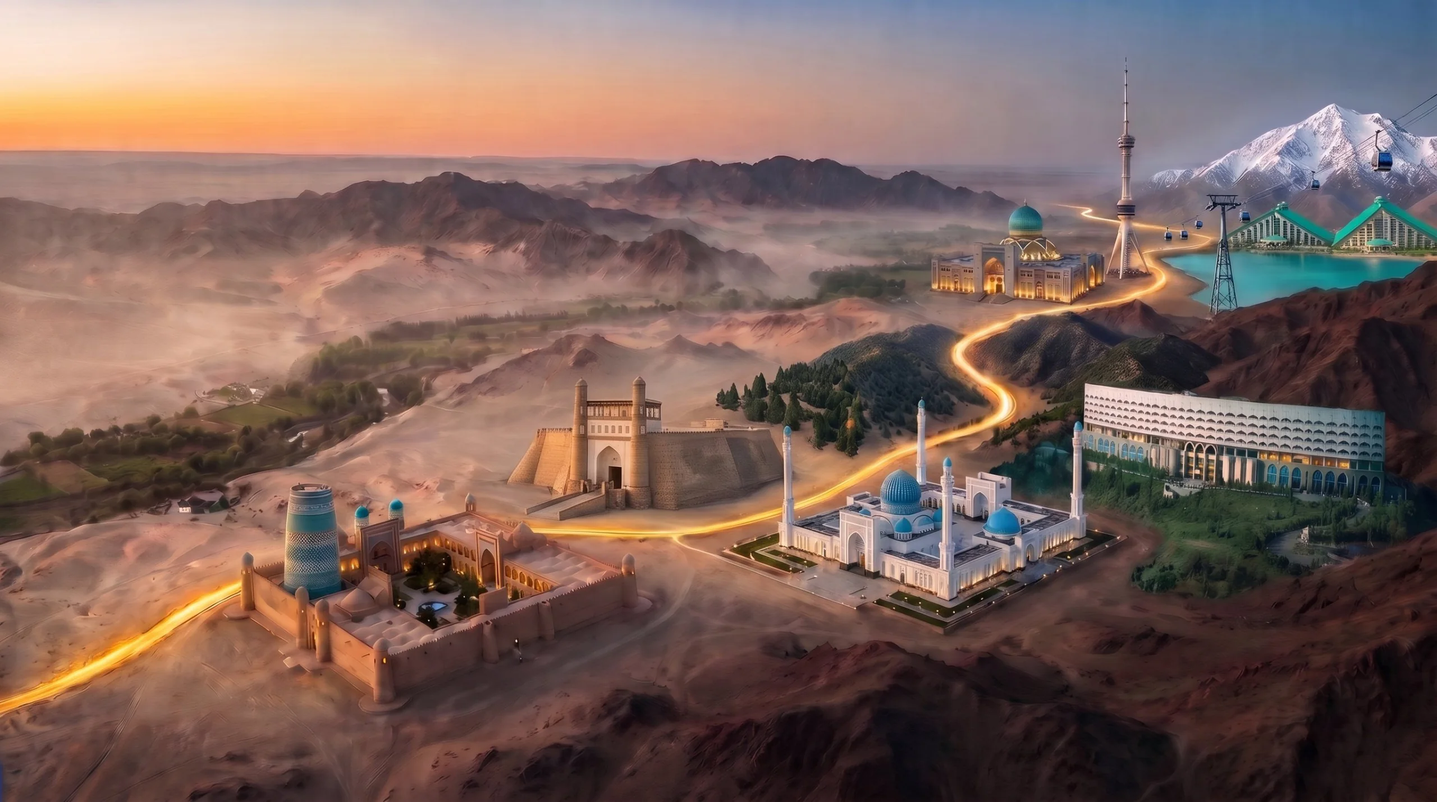
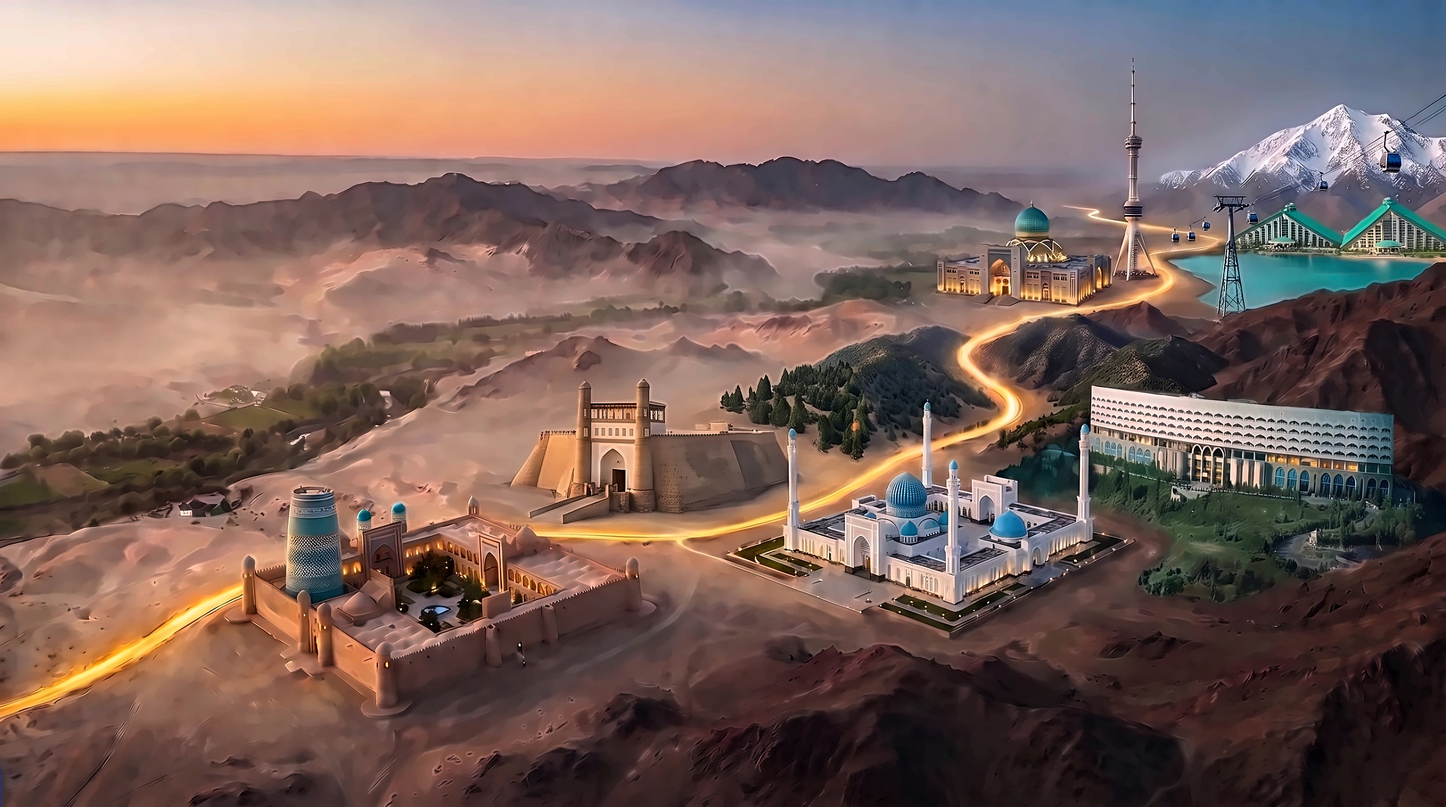
Главная: более чёткая картинка (шумоподавление, резкость по деталям), бикубическая выборка в шейдере, без тумана и зерна, меньше увеличения
Claude-Session: https://claude.ai/code/session_019rvsgJd1NsjFrsZph4atX1

diff --git a/js/hero-silk.js b/js/hero-silk.js
@@ -10,7 +10,8 @@
      свет «зажигает» дорогу, потом по ней течёт золотой поток;
    • silk3-map-b.png: R — вода Чарвака (рябь, блики), G — снег
      Чимгана (искры), B — ореол дороги;
-   • туман в долине, мягкая виньетка, плёночное зерно.
+   • картинка берётся бикубически (чётче обычного сглаживания);
+     без тумана и зерна — чистая чёткая сцена.
    Маршрут внизу — навигация по регионам с цифрами из каталога.
    Без WebGL или при «уменьшить движение» остаётся картинка.
    ============================================================ */
@@ -145,12 +146,33 @@ varying vec2 vUv;
 uniform sampler2D uImg, uA, uB;
 uniform vec2 uRes;
 uniform float uImgAR, uTime, uProg, uExpo, uFlow, uFocusR;
+uniform vec2 uTexSize;
 uniform vec3 uCam, uFocus;
 uniform vec2 uPar;
 
 float hash(vec2 p){ p = fract(p * vec2(123.34, 456.21)); p += dot(p, p + 45.32); return fract(p.x * p.y); }
 float noise(vec2 p){ vec2 i = floor(p), f = fract(p); f = f * f * (3. - 2. * f);
   return mix(mix(hash(i), hash(i + vec2(1., 0.)), f.x), mix(hash(i + vec2(0., 1.)), hash(i + vec2(1., 1.)), f.x), f.y); }
+/* бикубическая выборка (Catmull-Rom, 9 обращений) — без «мыла» при увеличении */
+vec3 sharpTex(sampler2D tex, vec2 uv, vec2 ts){
+  vec2 sp = uv * ts, t1 = floor(sp - .5) + .5, f = sp - t1;
+  vec2 w0 = f * (-.5 + f * (1. - .5 * f));
+  vec2 w1 = 1. + f * f * (-2.5 + 1.5 * f);
+  vec2 w2 = f * (.5 + f * (2. - 1.5 * f));
+  vec2 w3 = f * f * (-.5 + .5 * f);
+  vec2 w12 = w1 + w2;
+  vec2 t0 = (t1 - 1.) / ts, t3 = (t1 + 2.) / ts, t12 = (t1 + w2 / w12) / ts;
+  vec3 r = texture2D(tex, vec2(t0.x, t0.y)).rgb * w0.x * w0.y
+         + texture2D(tex, vec2(t12.x, t0.y)).rgb * w12.x * w0.y
+         + texture2D(tex, vec2(t3.x, t0.y)).rgb * w3.x * w0.y
+         + texture2D(tex, vec2(t0.x, t12.y)).rgb * w0.x * w12.y
+         + texture2D(tex, vec2(t12.x, t12.y)).rgb * w12.x * w12.y
+         + texture2D(tex, vec2(t3.x, t12.y)).rgb * w3.x * w12.y
+         + texture2D(tex, vec2(t0.x, t3.y)).rgb * w0.x * w3.y
+         + texture2D(tex, vec2(t12.x, t3.y)).rgb * w12.x * w3.y
+         + texture2D(tex, vec2(t3.x, t3.y)).rgb * w3.x * w3.y;
+  return clamp(r, 0., 1.);
+}
 float fbm(vec2 p){ float v = 0., a = .5; for (int i = 0; i < 4; i++) { v += a * noise(p); p = p * 2.03 + 7.1; a *= .5; } return v; }
 
 void main(){
@@ -176,18 +198,10 @@ void main(){
     wuv.x += (noise(vec2(uv.x * 160., uv.y * 900. - uTime * .9)) - .5) * .0022 * water;
     wuv.y += (noise(vec2(uv.x * 90. + uTime * .25, uv.y * 520.)) - .5) * .0010 * water;
   }
-  vec3 col = texture2D(uImg, wuv).rgb;
+  vec3 col = sharpTex(uImg, wuv, uTexSize);
   if (water > .01) {
     float g = pow(noise(vec2(uv.x * 620. + uTime * .4, uv.y * 2400. + uTime * 1.4)), 16.);
     col += vec3(1., .93, .8) * g * water * 1.5;
-  }
-
-  /* туман в долине слева — медленно течёт */
-  float fw = smoothstep(.17, .30, uv.y) * (1. - smoothstep(.50, .68, uv.y)) * (1. - smoothstep(.40, .74, uv.x)) * (1. - d * .55);
-  if (fw > .001) {
-    vec2 fp = vec2(uv.x * 3.4 + uTime * .012, uv.y * 7.5);
-    float fog = fbm(fp + vec2(fbm(fp * 1.6 - vec2(uTime * .025, 0.)), 0.));
-    col = mix(col, vec3(.95, .85, .78), smoothstep(.45, .88, fog) * fw * .22);
   }
 
   /* солнце у горизонта дышит */
@@ -227,13 +241,12 @@ void main(){
     col += vec3(1., .78, .5) * fl * uFocus.z * .045;
   }
 
-  /* экспозиция, виньетка, зерно */
+  /* экспозиция и виньетка */
   vec2 vq = s - .5;
   float l2 = dot(col, vec3(.299, .587, .114));
   col = mix(vec3(l2), col, 1.07);
   col = (col - .5) * 1.04 + .5;
   col *= uExpo * (1. - dot(vq, vq) * .32);
-  col += (hash(gl_FragCoord.xy + fract(uTime) * 91.) - .5) * .018;
   gl_FragColor = vec4(col, 1.);
 }`;
 
@@ -256,7 +269,7 @@ void main(){
     gl.bufferData(gl.ARRAY_BUFFER, new Float32Array([-1, -1, 1, -1, -1, 1, 1, 1]), gl.STATIC_DRAW);
     const loc = gl.getAttribLocation(pr, 'p'); gl.enableVertexAttribArray(loc); gl.vertexAttribPointer(loc, 2, gl.FLOAT, false, 0, 0);
     const U = {};
-    ['uImg', 'uA', 'uB', 'uRes', 'uImgAR', 'uTime', 'uProg', 'uExpo', 'uFlow', 'uFocusR', 'uCam', 'uFocus', 'uPar'].forEach((n) => { U[n] = gl.getUniformLocation(pr, n); });
+    ['uImg', 'uA', 'uB', 'uRes', 'uTexSize', 'uImgAR', 'uTime', 'uProg', 'uExpo', 'uFlow', 'uFocusR', 'uCam', 'uFocus', 'uPar'].forEach((n) => { U[n] = gl.getUniformLocation(pr, n); });
     return { gl, U };
   }
 
@@ -323,13 +336,13 @@ void main(){
       camT.x = s.fu; camT.y = .5; camT.z = 1.03;
     } else if (hover >= 0) {
       const s = STOPS[hover];
-      camT.x = lerp(.5, s.fu, .55); camT.y = lerp(.5, s.fv, .5); camT.z = 1.16;
+      camT.x = lerp(.5, s.fu, .55); camT.y = lerp(.5, s.fv, .5); camT.z = 1.12;
     } else {
       /* общий план, лёгкое «дыхание» и наклон к активному региону */
       const s = active >= 0 ? STOPS[active] : null;
-      camT.x = .5 + (s ? (s.fu - .5) * .06 : 0) + .006 * Math.sin(tt * .07);
-      camT.y = .5 + (s ? (s.fv - .5) * .05 : 0) + .004 * Math.sin(tt * .05);
-      camT.z = 1.045 + .012 * Math.sin(tt * .045);
+      camT.x = .5 + (s ? (s.fu - .5) * .06 : 0) + .004 * Math.sin(tt * .07);
+      camT.y = .5 + (s ? (s.fv - .5) * .05 : 0) + .003 * Math.sin(tt * .05);
+      camT.z = 1.018 + .006 * Math.sin(tt * .045);
     }
     if (sel >= 0) { const s = STOPS[sel]; focusT.x = s.fu; focusT.y = s.fv; focusT.r = s.fr; focusT.s = hover >= 0 ? 1 : .75; }
     else focusT.s = 0;
@@ -346,6 +359,7 @@ void main(){
       texture(gl, 0, im); texture(gl, 1, ma); texture(gl, 2, mb);
       gl.uniform1i(U.uImg, 0); gl.uniform1i(U.uA, 1); gl.uniform1i(U.uB, 2);
       gl.uniform1f(U.uImgAR, IMG_AR);
+      gl.uniform2f(U.uTexSize, im.naturalWidth, im.naturalHeight);
       glOn = true;
       run(ctx);
     }).catch(() => { introText(); finishIntro(performance.now()); });
@@ -354,7 +368,7 @@ void main(){
   let W = 0, H = 0, visible = true, raf = 0, last = 0, t0 = 0;
   function resize() {
     const r = canvas.getBoundingClientRect();
-    const dpr = Math.min(window.devicePixelRatio || 1, mobileMQ.matches ? 1.5 : 1.75);
+    const dpr = Math.min(window.devicePixelRatio || 1, 2);
     W = Math.max(1, Math.round(r.width * dpr)); H = Math.max(1, Math.round(r.height * dpr));
     if (canvas.width !== W || canvas.height !== H) { canvas.width = W; canvas.height = H; }
   }
@@ -394,7 +408,7 @@ void main(){
         const [hx, hy] = headPoint(prog);
         const zk = easeIO(clamp((e - .3) / 6.8, 0, 1));
         if (mobileMQ.matches) { camT.x = hx; camT.y = .5; camT.z = lerp(1.12, 1.03, zk); }
-        else { camT.x = lerp(hx, .5, zk * zk); camT.y = lerp(hy, .5, zk * zk); camT.z = lerp(1.34, 1.045, zk); }
+        else { camT.x = lerp(hx, .5, zk * zk); camT.y = lerp(hy, .5, zk * zk); camT.z = lerp(1.26, 1.018, zk); }
         clampCam(camT, w, h);
         STOPS.forEach((s, i) => {
           const lo = i ? STOPS[i - 1].t : 0;
@@ -420,7 +434,7 @@ void main(){
       focus.x = damp(focus.x, focusT.x, 4, dt); focus.y = damp(focus.y, focusT.y, 4, dt);
       focus.s = damp(focus.s, focusT.s, 3, dt); focus.r = damp(focus.r, focusT.r, 4, dt);
       /* объём: медленный «облёт» + мышь */
-      const tt = now / 1000, amp = mobileMQ.matches ? .010 : .014;
+      const tt = now / 1000, amp = mobileMQ.matches ? .006 : .008;
       par.x = damp(par.x, amp * Math.sin(tt * .23) * .6 + mouse.x * amp, 3, dt);
       par.y = damp(par.y, amp * Math.cos(tt * .19) * .35 + mouse.y * amp * .6, 3, dt);
 
